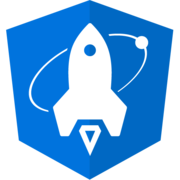
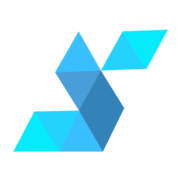
Remove some ng-X-Rocket branding

diff --git a/src/app/shell/header/header.component.ts b/src/app/shell/header/header.component.ts
@@ -3,6 +3,7 @@ import { Router } from '@angular/router';
 import { Account } from '@app/@shared/interfaces/account';
 import { AccountService } from '@app/@shared/service/account.service';
 import { AuthenticationService } from '@app/@shared/service/authentication.service';
+import { environment } from '@env/environment';
 
 @Component({
   selector: 'app-header',
@@ -10,6 +11,7 @@ import { AuthenticationService } from '@app/@shared/service/authentication.servi
   styleUrls: ['./header.component.scss'],
 })
 export class HeaderComponent implements OnInit {
+  appName: string = environment.envVars['APPLICATION_FRIENDLY_NAME'];
   id: string;
   name: string;
   company?: string;

diff --git a/src/index.html b/src/index.html
@@ -4,11 +4,10 @@
     <meta charset="utf-8" />
     <!-- needs to be right at the top to prevent Chrome from reloading favicon on every route change -->
     <link rel="icon" type="image/x-icon" href="favicon.ico" />
-    <title>ngX-Rocket</title>
+    <title>Angular</title>
     <base href="/" />
     <meta name="viewport" content="width=device-width, initial-scale=1" />
     <meta name="theme-color" content="#4e8ef7" />
-    <link rel="manifest" href="manifest.webmanifest" />
 
     <!-- add to homescreen for ios -->
     <meta name="apple-mobile-web-app-capable" content="yes" />

diff --git a/src/app/login/login.component.ts b/src/app/login/login.component.ts
@@ -23,6 +23,7 @@ const log = new Logger('Login');
 })
 export class LoginComponent implements OnInit, OnDestroy {
   version: string | null = environment.version;
+  appName: string = environment.envVars['APPLICATION_FRIENDLY_NAME'];
   error: string | undefined;
   loading = true;
   providers: Providers;

diff --git a/src/app/home/home.component.html b/src/app/home/home.component.html
@@ -1,7 +1,7 @@
 <div class="container-fluid">
   <div class="jumbotron text-center">
     <h1>
-      <img class="logo" src="assets/ngx-rocket-logo.png" alt="angular logo" />
+      <img class="logo" src="assets/logo.png" alt="Logo" />
       <span translate>Hello world!</span>
     </h1>
   </div>

diff --git a/src/app/shell/header/header.component.html b/src/app/shell/header/header.component.html
@@ -1,6 +1,6 @@
 <header>
   <nav class="navbar navbar-expand-lg navbar-dark bg-dark">
-    <a class="navbar-brand" routerLink="/home" translate>APP_NAME</a>
+    <a class="navbar-brand" routerLink="/home">{{ appName }}</a>
     <button
       class="navbar-toggler"
       type="button"

diff --git a/src/app/about/about.component.html b/src/app/about/about.component.html
@@ -1,7 +1,7 @@
 <div class="container-fluid">
   <div class="jumbotron text-center">
     <h1>
-      <span translate>APP_NAME</span>
+      <span>{{ appName }}</span>
     </h1>
     <p><i class="far fa-bookmark"></i> <span translate>Version</span> {{ version }}</p>
   </div>

diff --git a/src/app/about/about.component.ts b/src/app/about/about.component.ts
@@ -9,6 +9,7 @@ import { environment } from '@env/environment';
 })
 export class AboutComponent implements OnInit {
   version: string | null = environment.version;
+  appName: string = environment.envVars['APPLICATION_FRIENDLY_NAME'];
 
   constructor() {}
 

diff --git a/src/app/login/login.component.html b/src/app/login/login.component.html
@@ -1,6 +1,6 @@
 <div class="login-container bg-light">
   <div class="login-box">
-    <h1 translate>APP_NAME</h1>
+    <h1>{{ appName }}</h1>
     <div>
       <h6 class="d-inline-block">v{{ version }}</h6>
       <div class="d-inline-block ml-3">
